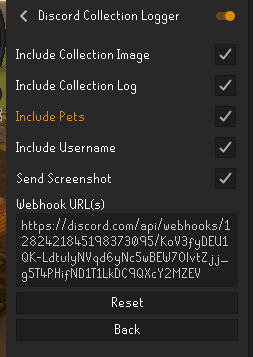
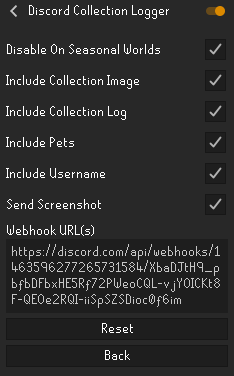
Update setup command.

diff --git a/commands/setup.js b/commands/setup.js
@@ -1,5 +1,6 @@
 const path = require('path');
-const COLLECTION_WEBHOOK = "https://discord.com/api/webhooks/1282421845198373095/KoV3fyDEU1QK-LdtulyNVqd6yNc5wBEW7OlvtZjj_g5T4PHifND1T1LkDC9QXcY2MZEV";
+const COLLECTION_WEBHOOK = "https://discord.com/api/webhooks/1463596277265731584/XbaDJtH9_pbfbDFbxHE5Rf72PWeoCQL-vjYOICKt8F-QEOe2RQI-iiSpSZSDioc0f6im";
+const LOOT_WEBHOOK = "https://discord.com/api/webhooks/1463596005663440896/Zp17AAE-goehXnnaBRpsyu9vNvHsOr3Jv_MjmHFBigFMsAM5ZeMIm2wSp7YMurLRgIlC";
 
 module.exports = {
   name: "setup",
@@ -17,9 +18,9 @@ module.exports = {
           "Hey there! We use the following plugins:\n" +
           "1. Discord Collection Logger (see <#1282421548074012784>)\n" +
           `   - Webhook: ${COLLECTION_WEBHOOK}\n` +
-          "2. Discord Loot Logger (see <#1282421548074012784>)\n" +
+          "2. Discord Loot Logger (see <#1463595426358755472>)\n" +
           `   - Loot Value = 3,000,000\n` +
-          `   - Webhook: ${COLLECTION_WEBHOOK}\n` +
+          `   - Webhook: ${LOOT_WEBHOOK}\n` +
           "3. XP Updater (used for Competition tracking)\n\n" +
           "Please see the attached screenshots for the advised plugin setups.",
         files: [
